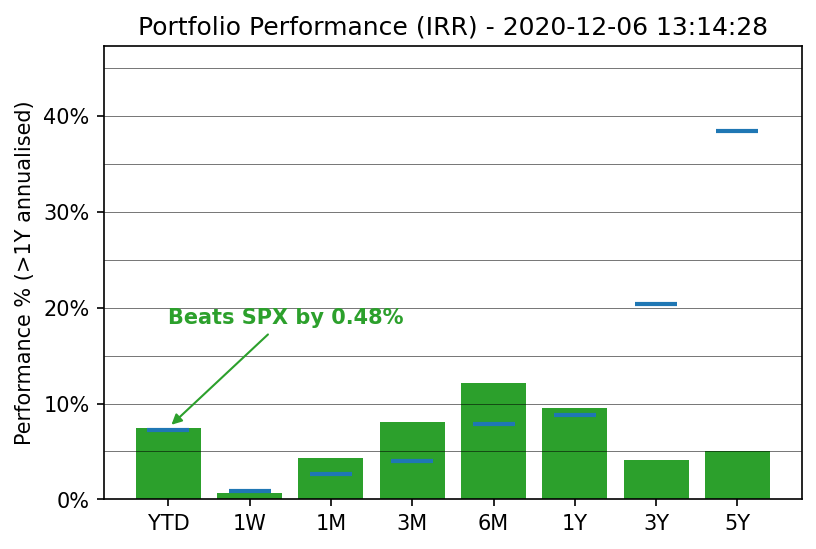
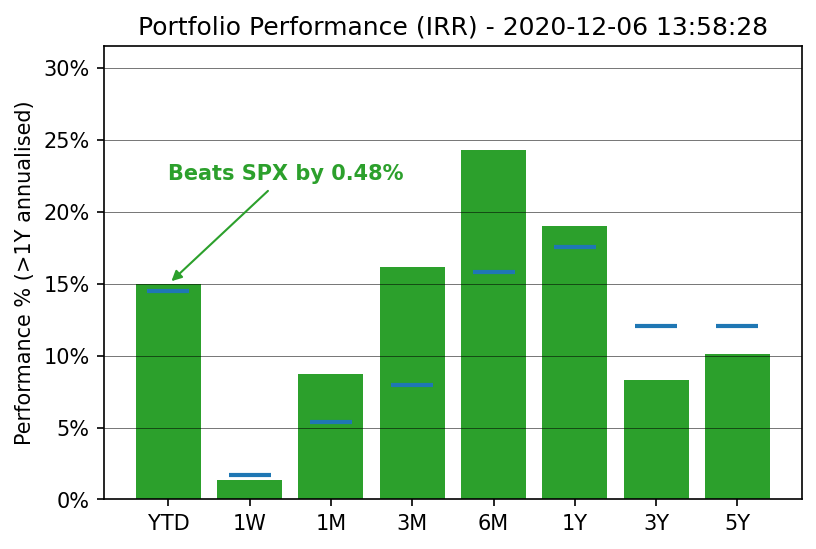
Add files via upload
Updated SPX returns -> annualised for 3Y and 5Y

diff --git a/calc_returns.py b/calc_returns.py
@@ -19,39 +19,7 @@ import dateutil.relativedelta
 import calc_summary
 import calc_fx
 import mdata
-
-
-# function to return start dates for YTD 1W 1M 3M 6M 1Y 3Y 5Y 10Y; calculate up to end of yesterday
-def GetStartDate(period=None):
-    #period='1m'
-    if period is None:
-        tn = setup.GetAllTransactions()
-        supported_instruments = setup.GetListOfSupportedInstruments()
-        tn = tn[tn.BBGCode.isin(supported_instruments)]
-        start_date = tn.Date.min()    # since inception
-    else:
-        period = period.upper()
-    # supported periods: YTD 1W 1M 3M 6M 1Y 3Y 5Y 10Y; calculate up to end of yesterday (up to start of today)
-        today = datetime.datetime.today().date()
-        if period=='YTD':
-            start_date = datetime.datetime(today.year, 1, 1)
-        elif period=='1W':
-            start_date = today + datetime.timedelta(days=-7)
-        elif period=='1M':
-            start_date = today + dateutil.relativedelta.relativedelta(months=-1)
-        elif period=='3M':
-            start_date = today + dateutil.relativedelta.relativedelta(months=-3)
-        elif period=='6M':
-            start_date = today + dateutil.relativedelta.relativedelta(months=-6)
-        elif period=='1Y' or period=='12M':
-            start_date = today + dateutil.relativedelta.relativedelta(years=-1)
-        elif period=='3Y':
-            start_date = today + dateutil.relativedelta.relativedelta(years=-3)
-        elif period=='5Y':
-            start_date = today + dateutil.relativedelta.relativedelta(years=-5)
-        elif period=='10Y':
-            start_date = today + dateutil.relativedelta.relativedelta(years=-10)
-    return start_date
+import util
 
 
 # function to get the balance brought forward (of supported instruments)
@@ -238,7 +206,7 @@ def CalcModDietzReturn(platform, bbgcode=None, period=None):
 
     # filter on date range for the transactions / cash flows
     if period is not None:
-        start_date = GetStartDate(period)
+        start_date = util.GetStartDate(period)
         df = df[df.Date >= np.datetime64(start_date)]
     
     # filter the data based on selection criteria (bbgcode, or platform)
@@ -431,7 +399,7 @@ def CalcIRR(platform=None, bbgcode=None, period=None):
         df = df[df.BBGCode==bbgcode]
 
     # get the start date for cashflows (the sum of anything before needs to be added as a single cashflow)
-    date_range_start = GetStartDate(period)
+    date_range_start = util.GetStartDate(period)
     
     # apply the start date from applicable transactions
     earliest_transaction_date = df.Date.min()
@@ -545,3 +513,44 @@ def CalcIRR(platform=None, bbgcode=None, period=None):
 # print (CalcIRR(period='6M'))
 # print (CalcIRR(period='1Y'))
 # print (CalcIRR(period='3Y'))
+
+
+# Calculates SPX performance: YTD 1W 1M 3M 6M 1Y 3Y 5Y
+def GetSPXReturns():
+    spx = mdata.GetHistoricalSPX()
+    date_ranges = ['YTD','1W','1M','3M','6M','1Y','3Y','5Y']
+    start_dates = {}
+    for i in range(len(date_ranges)):
+        start_dates[date_ranges[i]] = util.GetStartDate(date_ranges[i])
+    
+    # gets the last price before the specified date
+    def _GetPrice(dt):
+        price = spx[spx.Date<=dt].tail(1).SPX.iloc[0]
+        return price
+
+    spx_prices = {}
+    for i in range(len(date_ranges)):
+        spx_prices[date_ranges[i]] = _GetPrice(start_dates[date_ranges[i]])
+        
+    df = pd.DataFrame(data=spx_prices, index=[0])
+    df = df.melt(var_name='DateRange',value_name='Price')
+    df['LatestPrice'] = spx.tail(1).SPX.iloc[0]
+    df['CumulativeReturn'] = df.LatestPrice / df.Price - 1
+    
+    # annualise returns for those beyond 1Y
+    def _AnnualiseReturn(cum_return: float, date_range: str) -> float:
+        if date_range[-1]=='Y':
+            years = int(date_range[:-1])
+            ar = ((cum_return + 1)**(1 / years)) - 1
+        else:
+            ar = cum_return
+        return ar
+    
+    # apply the annualised return
+    for i in range(len(df)):
+        df.loc[i,'AnnualisedReturn'] = _AnnualiseReturn(df.loc[i,'CumulativeReturn'], df.loc[i,'DateRange'])
+    
+    df.set_index('DateRange', inplace=True)
+    return df
+    
+

diff --git a/util.py b/util.py
@@ -1,0 +1,50 @@
+# -*- coding: utf-8 -*-
+"""
+Created on Sun Dec  6 11:35:31 2020
+
+@author: Wilson Leong
+
+This module does the following:
+    - GetStartDate()
+
+"""
+
+import datetime
+import dateutil
+
+date_ranges = ['YTD','1W','1M','3M','6M','1Y','3Y','5Y']
+
+# function to return start dates for YTD 1W 1M 3M 6M 1Y 3Y 5Y 10Y; calculate up to end of yesterday
+def GetStartDate(period=None):
+    #period='1m'
+    if period is None:
+        tn = setup.GetAllTransactions()
+        supported_instruments = setup.GetListOfSupportedInstruments()
+        tn = tn[tn.BBGCode.isin(supported_instruments)]
+        start_date = tn.Date.min()    # since inception
+    else:
+        period = period.upper()
+    # supported periods: YTD 1W 1M 3M 6M 1Y 3Y 5Y 10Y; calculate up to end of yesterday (up to start of today)
+        today = datetime.datetime.today().date()
+        if period=='YTD':
+            start_date = datetime.datetime(today.year, 1, 1)
+        elif period=='1W':
+            start_date = today + datetime.timedelta(days=-7)
+        elif period=='1M':
+            start_date = today + dateutil.relativedelta.relativedelta(months=-1)
+        elif period=='3M':
+            start_date = today + dateutil.relativedelta.relativedelta(months=-3)
+        elif period=='6M':
+            start_date = today + dateutil.relativedelta.relativedelta(months=-6)
+        elif period=='1Y' or period=='12M':
+            start_date = today + dateutil.relativedelta.relativedelta(years=-1)
+        elif period=='3Y':
+            start_date = today + dateutil.relativedelta.relativedelta(years=-3)
+        elif period=='5Y':
+            start_date = today + dateutil.relativedelta.relativedelta(years=-5)
+        elif period=='10Y':
+            start_date = today + dateutil.relativedelta.relativedelta(years=-10)
+        start_date = datetime.datetime.combine(start_date, datetime.datetime.min.time())
+    return start_date
+
+

diff --git a/viz.py b/viz.py
@@ -26,6 +26,7 @@ import matplotlib.dates as mdates
 import calc_summary
 import calc_returns
 import calc_fx
+import util
 _output_dir = r'D:\Wilson\Documents\Personal Documents\Investments\PortfolioTracker\sample screenshots'
 
 
@@ -121,7 +122,7 @@ def DisplayReturnPct():
     #spx_returns = np.array(spx.Returns)
 
     # compare porfolio returns vs SPX    
-    YTD_spx_diff = returns_irr['YTD'] - spx.loc['YTD','Returns']
+    YTD_spx_diff = returns_irr['YTD'] - spx.loc['YTD','AnnualisedReturn']
     if YTD_spx_diff >= 0:
         comp_label = 'Beats'
         annotate_colour = 'tab:green'
@@ -142,7 +143,7 @@ def DisplayReturnPct():
     ax.bar(date_ranges[return_negative], values[return_negative], color='tab:red')
 
     # add SPX as benchmark
-    ax.plot(date_ranges, list(spx.Returns), color='tab:blue', 
+    ax.plot(date_ranges, list(spx.AnnualisedReturn), color='tab:blue', 
             marker='_', markeredgewidth=2, markersize=20,
             label='SPX', lw=0)
 
